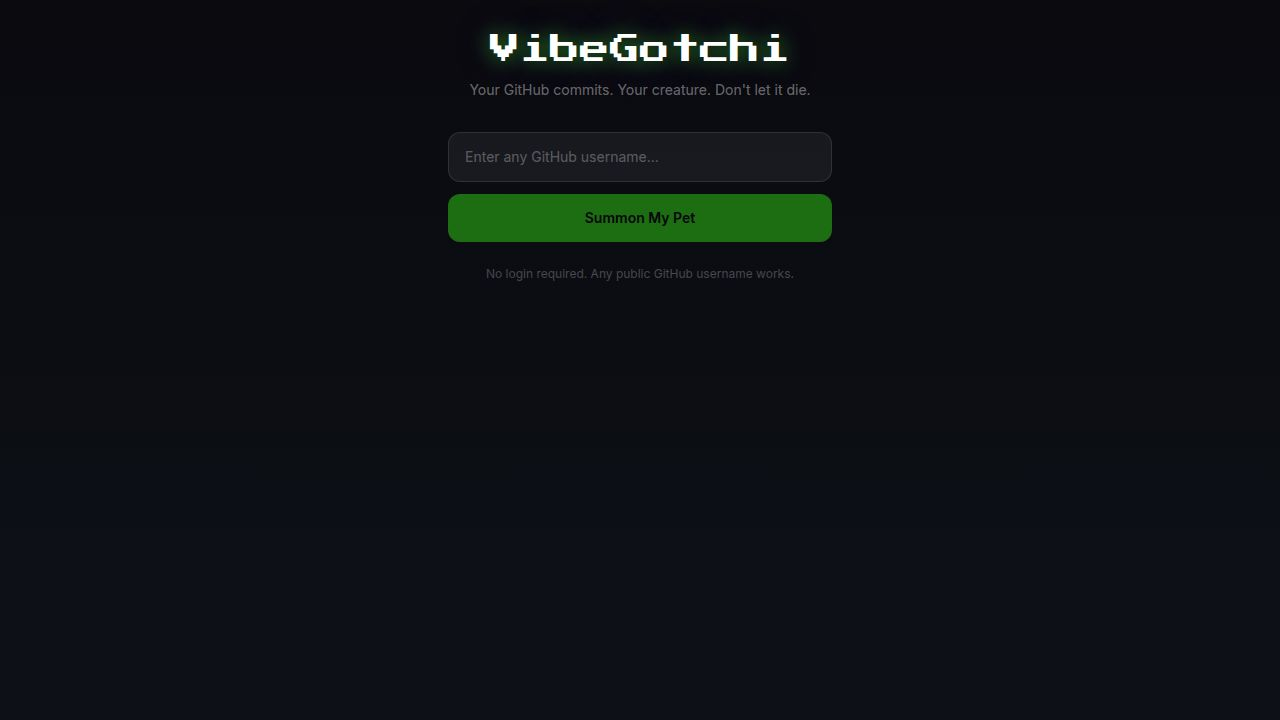
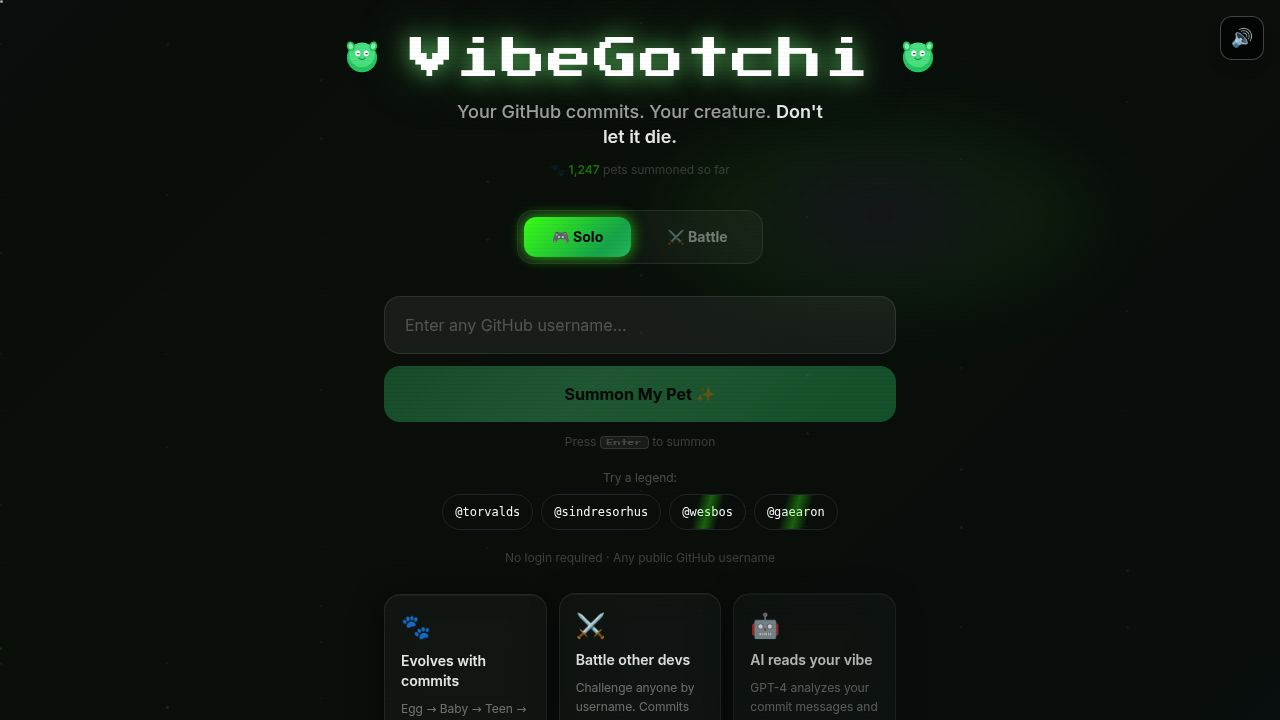
Enhance the game with dynamic page titles and interactive effects
Add confetti animations, rematch functionality, and improve UI elements across multiple components.

Replit-Commit-Author: Agent
Replit-Commit-Session-Id: 9fd5ad68-e5c2-460e-8a4f-6234ead6a2ef
Replit-Commit-Checkpoint-Type: full_checkpoint
Replit-Commit-Event-Id: 9f985020-8fe5-4c2a-ad64-932595d8f7b1
Replit-Commit-Screenshot-Url: https://storage.googleapis.com/screenshot-production-us-central1/ae4fc56f-7d29-4983-8f52-4186233bef91/9fd5ad68-e5c2-460e-8a4f-6234ead6a2ef/ZPnkPRD
Replit-Helium-Checkpoint-Created: true

diff --git a/artifacts/vibegotchi/src/pages/Home.tsx b/artifacts/vibegotchi/src/pages/Home.tsx
@@ -18,6 +18,7 @@ import { LoadingEgg } from "../components/LoadingEgg";
 import { EvolutionAnimation } from "../components/EvolutionAnimation";
 import { BattleMode } from "../components/BattleMode";
 import type { VibeResult } from "@workspace/api-client-react";
+import confetti from "canvas-confetti";
 
 type Phase = "input" | "loading" | "evolution" | "result" | "error" | "roast";
 type AppMode = "solo" | "battle";
@@ -171,6 +172,42 @@ export default function Home() {
     }
   }, [phase, petData, stage]);
 
+  // Dynamic browser tab title
+  useEffect(() => {
+    if (phase === "result" && petData) {
+      document.title = `${petData.username}'s Pet — VibeGotchi 🐾`;
+    } else {
+      document.title = "VibeGotchi 🐾";
+    }
+    return () => { document.title = "VibeGotchi 🐾"; };
+  }, [phase, petData]);
+
+  // Confetti burst for legend pets
+  useEffect(() => {
+    if (phase !== "result" || stage !== "legend") return;
+    void confetti({
+      particleCount: 130,
+      spread: 80,
+      origin: { y: 0.45 },
+      colors: [colors.fill, colors.accent, "#fbbf24", "#39ff14", "#c084fc"],
+      disableForReducedMotion: true,
+    });
+    const t = setTimeout(() => confetti.reset(), 2200);
+    return () => clearTimeout(t);
+  }, [phase, stage]); // eslint-disable-line react-hooks/exhaustive-deps
+
+  // Global keyboard shortcuts
+  useEffect(() => {
+    function onKey(e: KeyboardEvent) {
+      if (e.target instanceof HTMLInputElement || e.target instanceof HTMLTextAreaElement) return;
+      if (e.key === "Escape" && phase !== "input") handleReset();
+      if ((e.key === "b" || e.key === "B") && phase === "input") { setMode("battle"); sounds.click(); }
+      if (e.key === "l" || e.key === "L") window.location.href = "/leaderboard";
+    }
+    window.addEventListener("keydown", onKey);
+    return () => window.removeEventListener("keydown", onKey);
+  }, [phase]); // eslint-disable-line react-hooks/exhaustive-deps
+
   // Silent background refresh every 30 seconds while on result screen
   const silentRefresh = useCallback(async (user: string) => {
     setIsRefreshing(true);
@@ -310,11 +347,12 @@ export default function Home() {
     <div className="relative min-h-screen bg-space flex flex-col items-center overflow-x-hidden w-full px-4 py-4 sm:py-8">
       <BackgroundEffects />
 
-      {/* Mute button — top right */}
+      {/* Sound toggle — top right, always visible */}
       <button
         onClick={handleToggleMute}
-        className="fixed top-4 right-4 z-50 w-9 h-9 rounded-lg bg-white/[0.06] border border-white/10 flex items-center justify-center text-base hover:bg-white/10 transition-colors"
-        title={muted ? "Unmute" : "Mute"}
+        className="fixed top-4 right-4 z-50 w-11 h-11 rounded-xl bg-black/60 border border-white/25 flex items-center justify-center text-lg hover:bg-white/10 hover:border-white/50 transition-all backdrop-blur-sm shadow-lg"
+        title={muted ? "Enable sounds" : "Disable sounds"}
+        aria-label={muted ? "Enable sounds" : "Disable sounds"}
       >
         {muted ? "🔇" : "🔊"}
       </button>
@@ -630,15 +668,25 @@ export default function Home() {
               boxShadow: `0 0 60px ${colors.accent}10`,
             }}
           >
-            {/* Username + personality */}
+            {/* Username + avatar + personality */}
             <motion.div
               initial={{ opacity: 0, y: 10 }}
               animate={{ opacity: 1, y: 0 }}
               className="text-center"
             >
-              <h2 className="text-lg font-semibold text-white">{petData.username}</h2>
+              <div className="flex items-center justify-center gap-2 mb-1">
+                <img
+                  src={`https://github.com/${petData.username}.png?size=48`}
+                  alt=""
+                  aria-hidden="true"
+                  className="w-7 h-7 rounded-full"
+                  style={{ border: `2px solid ${colors.accent}55` }}
+                  onError={(e) => { e.currentTarget.style.display = "none"; }}
+                />
+                <h2 className="text-lg font-semibold text-white">{petData.username}</h2>
+              </div>
               <p
-                className="font-pixel text-[9px] mt-1 tracking-widest uppercase"
+                className="font-pixel text-[9px] mt-0.5 tracking-widest uppercase"
                 style={{ color: "#c084fc", textShadow: "0 0 10px rgba(192,132,252,0.6), 0 0 24px rgba(147,51,234,0.35)" }}
               >
                 {vibeResult.petPersonality}
@@ -733,6 +781,7 @@ export default function Home() {
                   petPersonality={vibeResult.petPersonality}
                   totalStars={petData.totalStars}
                   totalRepos={petData.totalRepos}
+                  accentColor={colors.accent}
                 />
               </div>
             </div>
@@ -764,6 +813,9 @@ export default function Home() {
 
       {/* Footer */}
       <footer className="relative mt-auto pt-8 pb-6 w-full max-w-2xl">
+        <p className="font-pixel text-[7px] text-white/15 text-center mb-3 tracking-widest">
+          ⌨ esc · b battle · l leaderboard
+        </p>
         <div className="border-t pt-5 flex flex-col sm:flex-row items-center justify-between gap-3 sm:gap-0" style={{ borderColor: "rgba(57,255,20,0.1)" }}>
           <span className="font-pixel text-[7px] text-white/25">VibeGotchi 🐾</span>
           <p className="text-xs text-white/20 italic text-center">

diff --git a/artifacts/vibegotchi/src/components/BattleMode.tsx b/artifacts/vibegotchi/src/components/BattleMode.tsx
@@ -176,8 +176,25 @@ export function BattleMode() {
     if (s1 !== s2) sounds.victory(); else sounds.pop();
   }, [showResult, pet1, pet2]);
 
+  useEffect(() => {
+    if (phase === "result") {
+      document.title = "⚔ Battle Result — VibeGotchi 🐾";
+    }
+    return () => { document.title = "VibeGotchi 🐾"; };
+  }, [phase]);
+
   function handleReset() {
     setPhase("input"); setPet1(null); setPet2(null); setErrorMsg(""); setShowResult(false);
+    setUsername1(""); setUsername2("");
+  }
+
+  function handleRematch() {
+    setPet1(null);
+    setPet2(null);
+    setShowResult(false);
+    setErrorMsg("");
+    setPhase("input");
+    // username1, username2 remain — user just clicks Battle again
   }
 
   async function handleShare() {
@@ -409,9 +426,16 @@ export function BattleMode() {
             {copied ? "Copied! 🎉" : "Share Battle 🔥"}
           </motion.button>
           <motion.button
+            onClick={handleRematch}
+            whileHover={{ scale: 1.04 }} whileTap={{ scale: 0.96 }}
+            className="px-5 py-2.5 min-h-[44px] rounded-xl text-sm font-semibold border border-yellow-400/30 text-yellow-300/80 hover:bg-yellow-500/10 transition-colors"
+          >
+            Rematch ⚡
+          </motion.button>
+          <motion.button
             onClick={handleReset}
             whileHover={{ scale: 1.04 }} whileTap={{ scale: 0.96 }}
-            className="px-5 py-2.5 min-h-[44px] rounded-xl text-sm text-white/60 border border-white/10 hover:bg-white/5 transition-colors"
+            className="px-5 py-2.5 min-h-[44px] rounded-xl text-sm text-white/40 border border-white/10 hover:bg-white/5 transition-colors"
           >
             New Battle
           </motion.button>

diff --git a/artifacts/vibegotchi/src/index.css b/artifacts/vibegotchi/src/index.css
@@ -247,15 +247,20 @@
 
 /* Rainbow title glow */
 @keyframes rainbow-glow {
-  0%   { text-shadow: 0 0 18px rgba(57,255,20,0.8),  0 0 36px rgba(57,255,20,0.4); }
-  20%  { text-shadow: 0 0 18px rgba(147,51,234,0.8), 0 0 36px rgba(147,51,234,0.4); }
-  40%  { text-shadow: 0 0 18px rgba(59,130,246,0.8), 0 0 36px rgba(59,130,246,0.4); }
-  60%  { text-shadow: 0 0 18px rgba(251,191,36,0.8), 0 0 36px rgba(251,191,36,0.4); }
-  80%  { text-shadow: 0 0 18px rgba(239,68,68,0.8),  0 0 36px rgba(239,68,68,0.4); }
-  100% { text-shadow: 0 0 18px rgba(57,255,20,0.8),  0 0 36px rgba(57,255,20,0.4); }
+  0%   { text-shadow: 0 0 20px rgba(57,255,20,0.9),   0 0 44px rgba(57,255,20,0.5),   0 0 88px rgba(57,255,20,0.18); }
+  16%  { text-shadow: 0 0 28px rgba(147,51,234,1),    0 0 56px rgba(147,51,234,0.6),  0 0 110px rgba(147,51,234,0.22); }
+  33%  { text-shadow: 0 0 20px rgba(59,130,246,0.9),  0 0 44px rgba(59,130,246,0.5),  0 0 88px rgba(59,130,246,0.18); }
+  50%  { text-shadow: 0 0 28px rgba(251,191,36,1),    0 0 56px rgba(251,191,36,0.6),  0 0 110px rgba(251,191,36,0.22); }
+  66%  { text-shadow: 0 0 20px rgba(239,68,68,0.9),   0 0 44px rgba(239,68,68,0.5),   0 0 88px rgba(239,68,68,0.18); }
+  83%  { text-shadow: 0 0 28px rgba(20,230,185,1),    0 0 56px rgba(20,230,185,0.6),  0 0 110px rgba(20,230,185,0.22); }
+  100% { text-shadow: 0 0 20px rgba(57,255,20,0.9),   0 0 44px rgba(57,255,20,0.5),   0 0 88px rgba(57,255,20,0.18); }
+}
+@keyframes rainbow-ls {
+  0%, 100% { letter-spacing: 0.02em; }
+  50%       { letter-spacing: 0.08em; }
 }
 .animate-rainbow-glow {
-  animation: rainbow-glow 7s linear infinite;
+  animation: rainbow-glow 9s ease-in-out infinite, rainbow-ls 4.5s ease-in-out infinite;
 }
 
 /* Animated summon button */

diff --git a/artifacts/vibegotchi/src/components/StatsPanel.tsx b/artifacts/vibegotchi/src/components/StatsPanel.tsx
@@ -53,6 +53,7 @@ interface StatsPanelProps {
   petPersonality: string;
   totalStars: number;
   totalRepos: number;
+  accentColor: string;
 }
 
 export function StatsPanel({
@@ -64,6 +65,7 @@ export function StatsPanel({
   vibeOneLiner,
   petPersonality,
   totalStars,
+  accentColor,
 }: StatsPanelProps) {
   const levelColor = level >= 80 ? "#fbbf24" : level >= 50 ? "#c084fc" : "var(--neon-green)";
   const levelGlow  = level >= 80
@@ -85,8 +87,20 @@ export function StatsPanel({
     <motion.div
       data-testid="stats-panel"
       initial={{ opacity: 0, x: 20 }}
-      animate={{ opacity: 1, x: 0 }}
-      transition={{ duration: 0.5, delay: 0.2 }}
+      animate={{
+        opacity: 1,
+        x: 0,
+        boxShadow: [
+          `inset 0 0 0 1px ${accentColor}18`,
+          `inset 0 0 0 1px ${accentColor}55, 0 0 18px ${accentColor}18`,
+          `inset 0 0 0 1px ${accentColor}18`,
+        ],
+      }}
+      transition={{
+        opacity: { duration: 0.5, delay: 0.2 },
+        x:       { duration: 0.5, delay: 0.2 },
+        boxShadow: { duration: 3.5, repeat: Infinity, ease: "easeInOut", delay: 1.2 },
+      }}
       className="rounded-2xl glass p-4 sm:p-5 flex flex-col gap-3 sm:gap-4"
     >
       {/* Header */}

diff --git a/artifacts/vibegotchi/src/pages/Leaderboard.tsx b/artifacts/vibegotchi/src/pages/Leaderboard.tsx
@@ -1,4 +1,4 @@
-import { useState } from "react";
+import { useState, useEffect } from "react";
 import { motion } from "framer-motion";
 import { Link, useLocation } from "wouter";
 import { loadLeaderboard, clearLeaderboard } from "../lib/leaderboard";
@@ -11,6 +11,11 @@ export default function Leaderboard() {
       .sort((a, b) => b.level - a.level)
       .slice(0, 20)
   );
+
+  useEffect(() => {
+    document.title = "Hall of Legends — VibeGotchi 🐾";
+    return () => { document.title = "VibeGotchi 🐾"; };
+  }, []);
 
   function handleClear() {
     clearLeaderboard();
